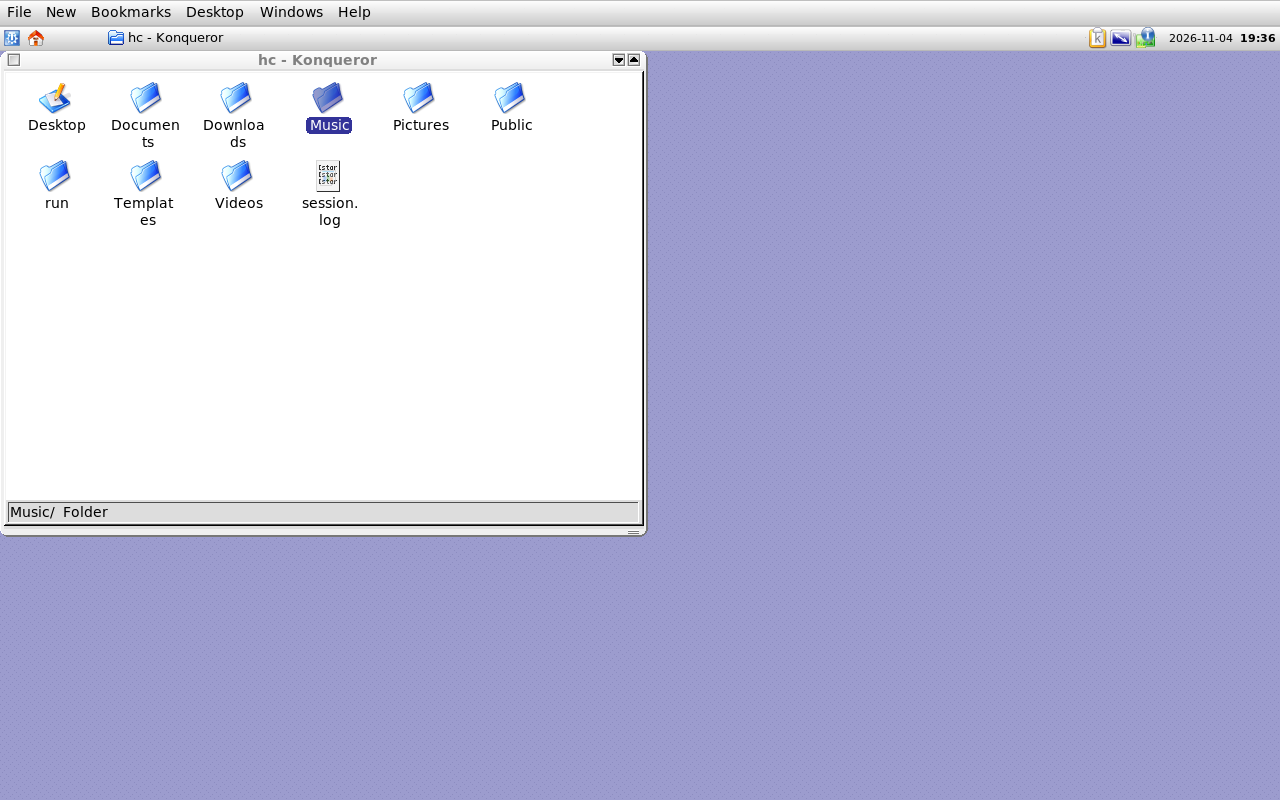
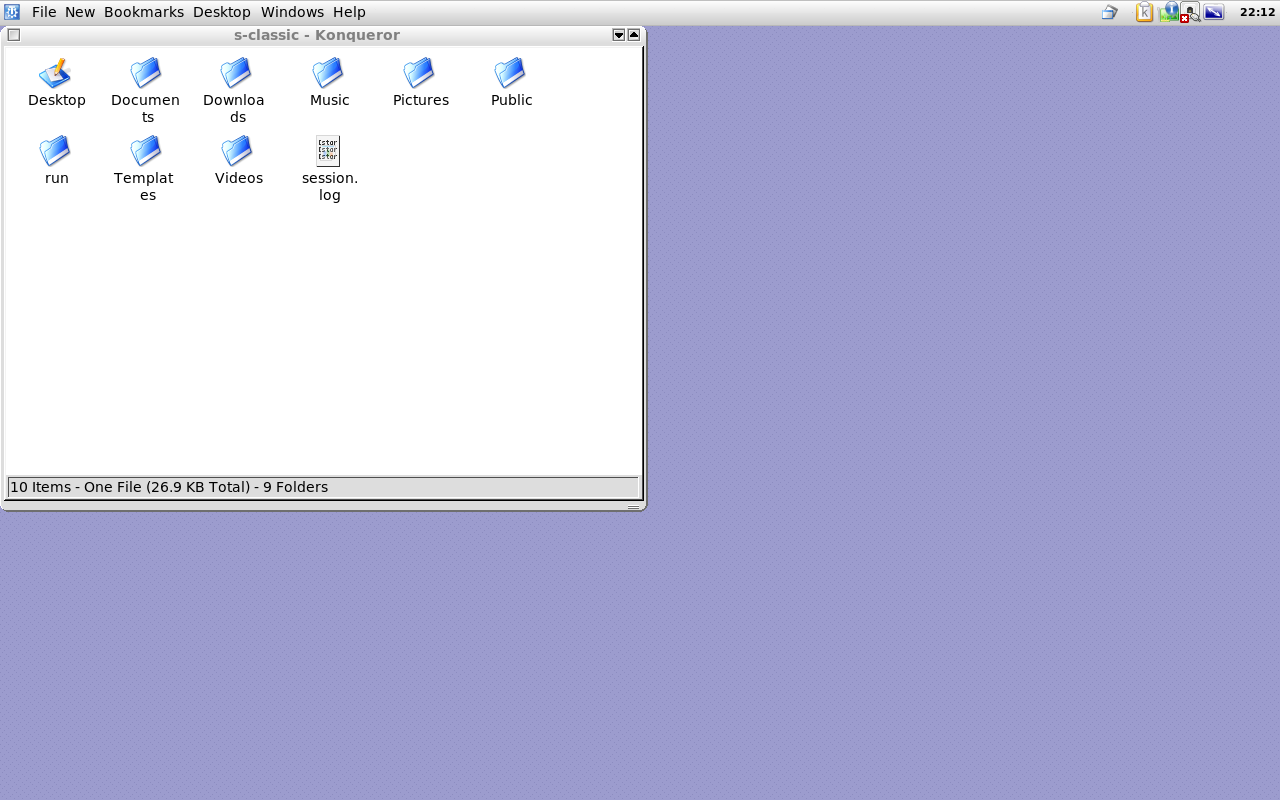
Put the tray, clock and applications menu on the global menu bar (1.9)
- macclassic: remove the panel under the global menu bar. One top bar now
  holds the applications menu, global menu, window list, tray and clock. The
  window list replaces the strip's taskbar. kicker can't run without a main
  panel, so it stays empty and auto-hidden with no way to bring it back;
  UserHidden would leave an unhide arrow on screen.
- macosx: move the Baghira starter, tray and clock from the dock to the top
  bar. The dock keeps the launchers and taskbar.
- Lay out the top bar with kicker_menubarpanelrc. It is kicker's own menu bar
  panel, so right-click already offers Add Applet to Menubar and Remove From
  Menubar.

Changed region(s): [[0.0, 0.0, 1.0, 0.2812], [0.0, 0.5938, 0.5312, 0.6875]]

diff --git a/README.md b/README.md
@@ -99,7 +99,8 @@ screen and a Finder-like Konqueror:
 | --- | --- | --- |
 | Widget style | built-in Platinum | Baghira (Panther mode) |
 | Window decoration | System++ | Baghira |
-| Panel | slim strip under the menu bar | centred dock with the Baghira starter |
+| Top bar | applications menu, app menus, window list, tray and clock | Baghira starter, app menus, tray and clock |
+| Other panels | none | centred dock with launchers and taskbar |
 | Konqueror | icon view only, no toolbars, each folder in a new window | sidebar, icon view and compact toolbar, no location bar |
 | Command | `tde-macclassic` | `tde-macosx` |
 
@@ -110,10 +111,16 @@ same backup. Either theme also appears in the **Theme Manager** as `MacClassic`
 or `MacOSX`, but the Theme Manager can only set the colours, style, decoration
 and wallpaper. The global menu, panel and Konqueror layouts need the command.
 
-Known limits: the top bar holds only the application's menus, so the launcher
-button sits on the strip or dock rather than at the far left of the menu bar; the
-dock is a kicker panel, with no magnification or bounce; and the Baghira starter's
-popup is cramped and clips some of its text. No Apple artwork, logos or fonts are
+Right-click the top bar to add or remove applets (**Add Applet to Menubar**,
+**Remove From Menubar**). It has no **Configure Panel** entry; use the Panels module
+in Control Center. The main panel in the Classic look is still running, empty and
+auto-hidden, because `kicker` can't run without one.
+
+If you applied either look before version 1.9, run the command again to get this
+layout. Your original settings stay backed up.
+
+Known limits: the dock is a kicker panel, with no magnification or bounce, and the
+Baghira starter's popup is cramped and clips some of its text. No Apple artwork, logos or fonts are
 included: the wallpapers are drawn here (`macos/*/desktop.svg`) and the icons are
 TDE's own. See `screenshots/`.
 

diff --git a/screenshots/README.md b/screenshots/README.md
@@ -12,9 +12,10 @@ Captured in a `debian:trixie` Docker container with the TDE trixie repo,
 | `win9x-tde-icons-desktop.png` | After applying the **Win9x** theme: same layout and colours, TDE's own icons. |
 | `win9x-tde-icons-theme-manager.png` | The Theme Manager listing the Win9x theme. |
 | `ksplash.png` | The `ceratopsian` KSplash theme (`ksplash --test --theme ceratopsian`) over the desktop. |
-| `mac-classic-desktop.png` | After `tde-macclassic` and a new login: Platinum style, System++ decoration, Konqueror's menus in the global menu bar, old-Finder Konqueror. |
+| `mac-classic-desktop.png` | After `tde-macclassic` and a new login: one top bar with the applications menu, Konqueror's menus, window list, tray and clock; Platinum style, System++ decoration, old-Finder Konqueror. |
 | `mac-classic-desktop-menu.png` | The same look with the desktop focused: the top bar shows the desktop's own menus. |
-| `mac-osx-desktop.png` | After `tde-macosx` and a new login: Baghira style and decoration, global menu bar, dock, Konqueror with sidebar and compact toolbar. |
+| `mac-osx-desktop.png` | After `tde-macosx` and a new login: Baghira style and decoration, top bar with the Baghira starter, app menus, tray and clock, dock with launchers and taskbar, Konqueror with sidebar and compact toolbar. |
+| `mac-menubar-right-click.png` | Right-clicking the top bar to add or remove applets. |
 | `mac-theme-manager.png` | The Theme Manager listing `MacClassic` and `MacOSX`. |
 
 The `win9x-*` shots were taken with `tde-refresh-win9x-trinity` installed by

diff --git a/CLAUDE.md b/CLAUDE.md
@@ -154,6 +154,10 @@ mistakes. `lintian` in the `build` job catches packaging-metadata problems.
   macStyle`), panel applets or Konqueror layout, so the helpers write those.
 - `settings.conf` repeats values from the theme XML. Change both:
   `macos/check-settings.sh` fails the build if they disagree.
+- The top bar is kicker's menu bar panel, laid out by `kicker_menubarpanelrc`; it
+  lists the applets, and its height is forced by kicker. Classic hides the main
+  panel with `AutoHidePanel` and `UnhideLocation=0`: kicker can't run without one,
+  and `UserHidden` would leave an unhide arrow on screen.
 - A new file written by `apply` must be added to `LOCAL_FILES` or `HOME_FILES` in
   the template, or `revert` will not restore it.
 - To test, start TDE under Xvfb with a throwaway `HOME` containing
